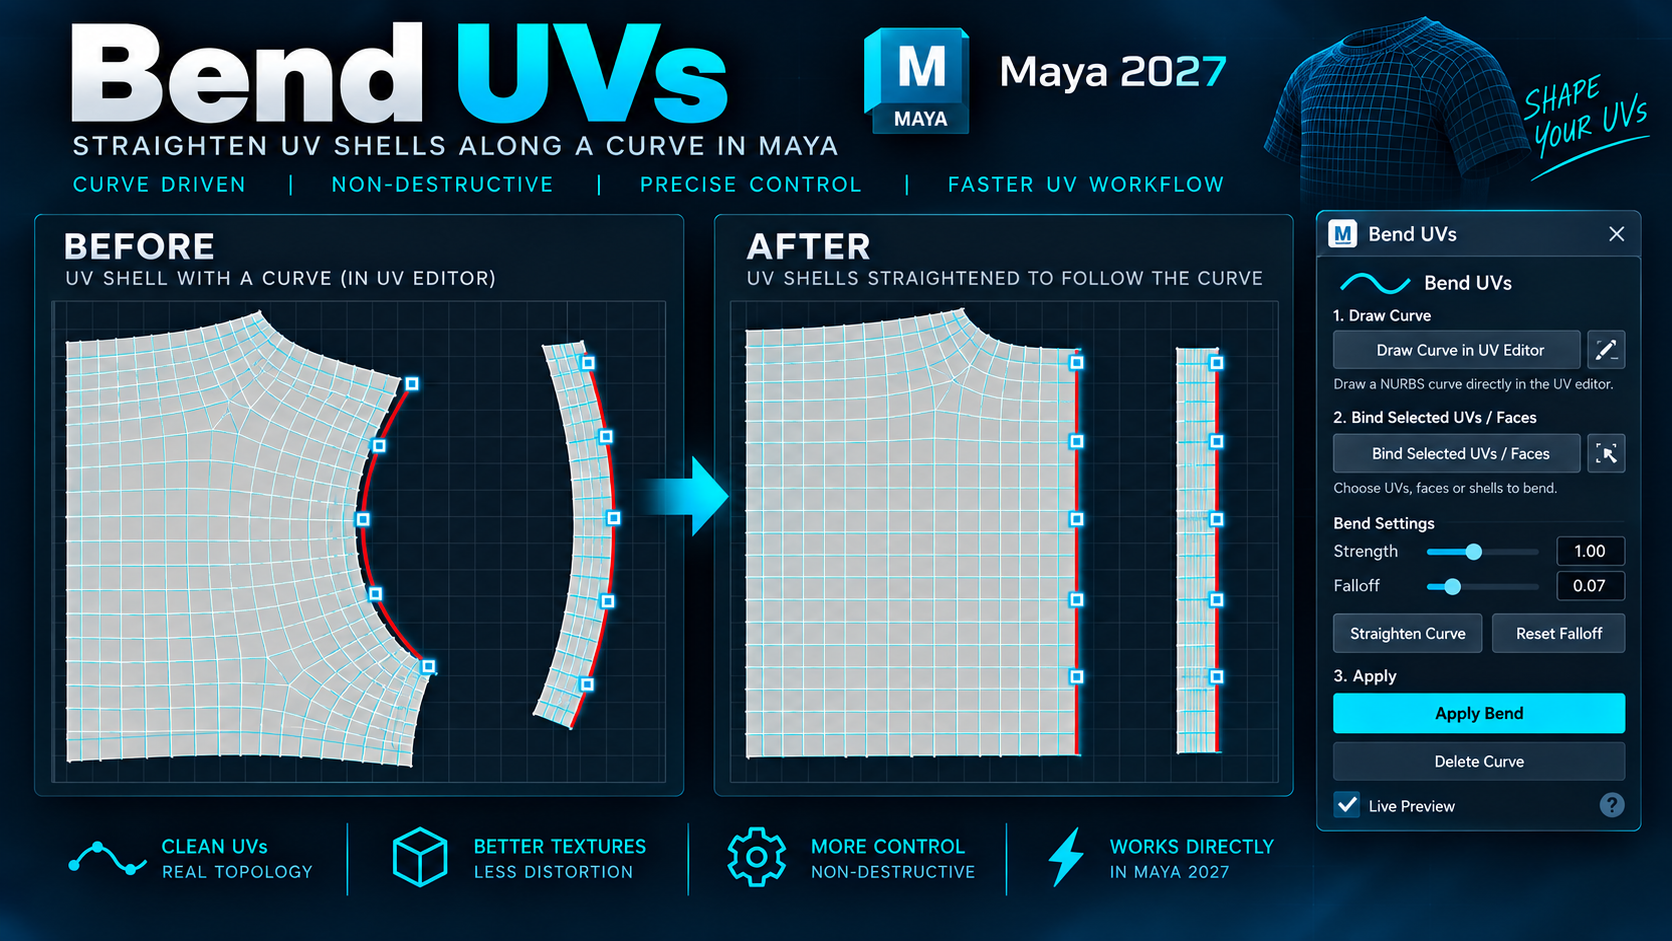
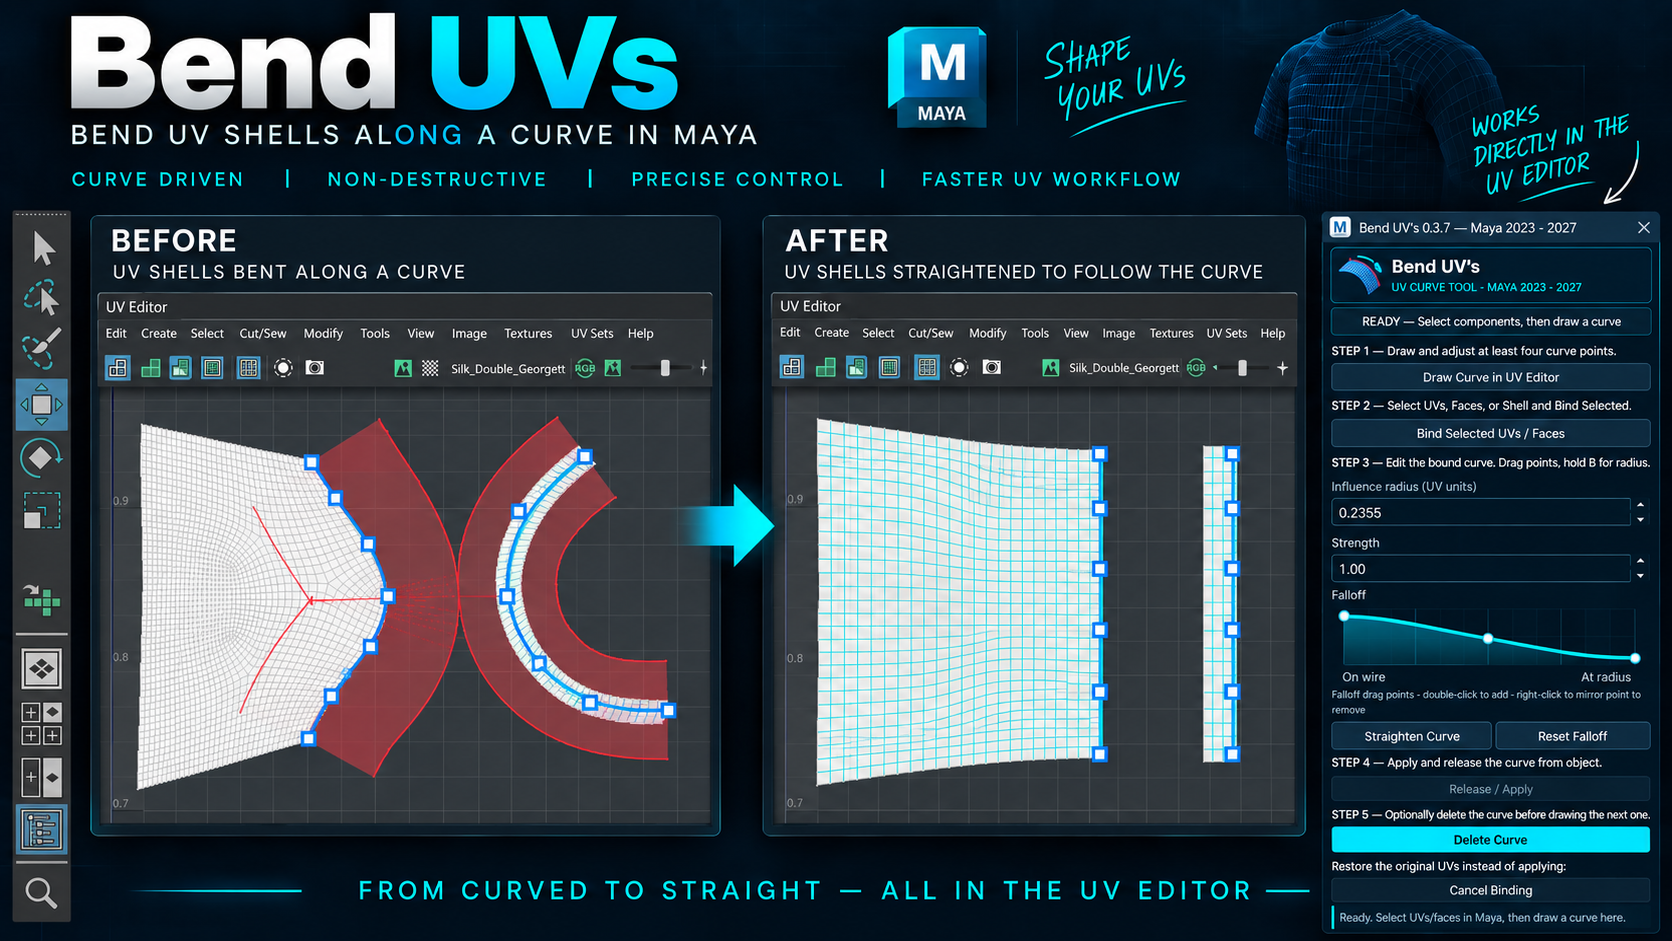
Use new Bend UVs before-and-after thumbnail

diff --git a/index.html b/index.html
@@ -4,6 +4,18 @@
     <meta name="view-transition" content="same-origin">
     <title>Bend UV's 0.3.7 — Directly in Maya | Jon Stoll</title>
     <meta name="description" content="Bend UV shells with a curve directly in Autodesk Maya 2023–2027 for Windows.">
+    <meta property="og:type" content="website">
+    <meta property="og:title" content="Bend UV's — Curve-Driven UV Editing for Maya">
+    <meta property="og:description" content="Bend and straighten UV shells along a curve directly in Maya 2023–2027.">
+    <meta property="og:url" content="https://benduvs.jonstoll.com/">
+    <meta property="og:image" content="https://benduvs.jonstoll.com/demo-poster.png">
+    <meta property="og:image:width" content="1672">
+    <meta property="og:image:height" content="941">
+    <meta property="og:image:alt" content="Bend UV's before-and-after UV workflow in Maya">
+    <meta name="twitter:card" content="summary_large_image">
+    <meta name="twitter:title" content="Bend UV's — Curve-Driven UV Editing for Maya">
+    <meta name="twitter:description" content="Bend and straighten UV shells along a curve directly in Maya 2023–2027.">
+    <meta name="twitter:image" content="https://benduvs.jonstoll.com/demo-poster.png">
     <link rel="icon" type="image/png" href="bend-uvs-icon.png">
     <script src="https://cdn.tailwindcss.com"></script>
     <script src="https://code.iconify.design/iconify-icon/1.0.7/iconify-icon.min.js"></script>
